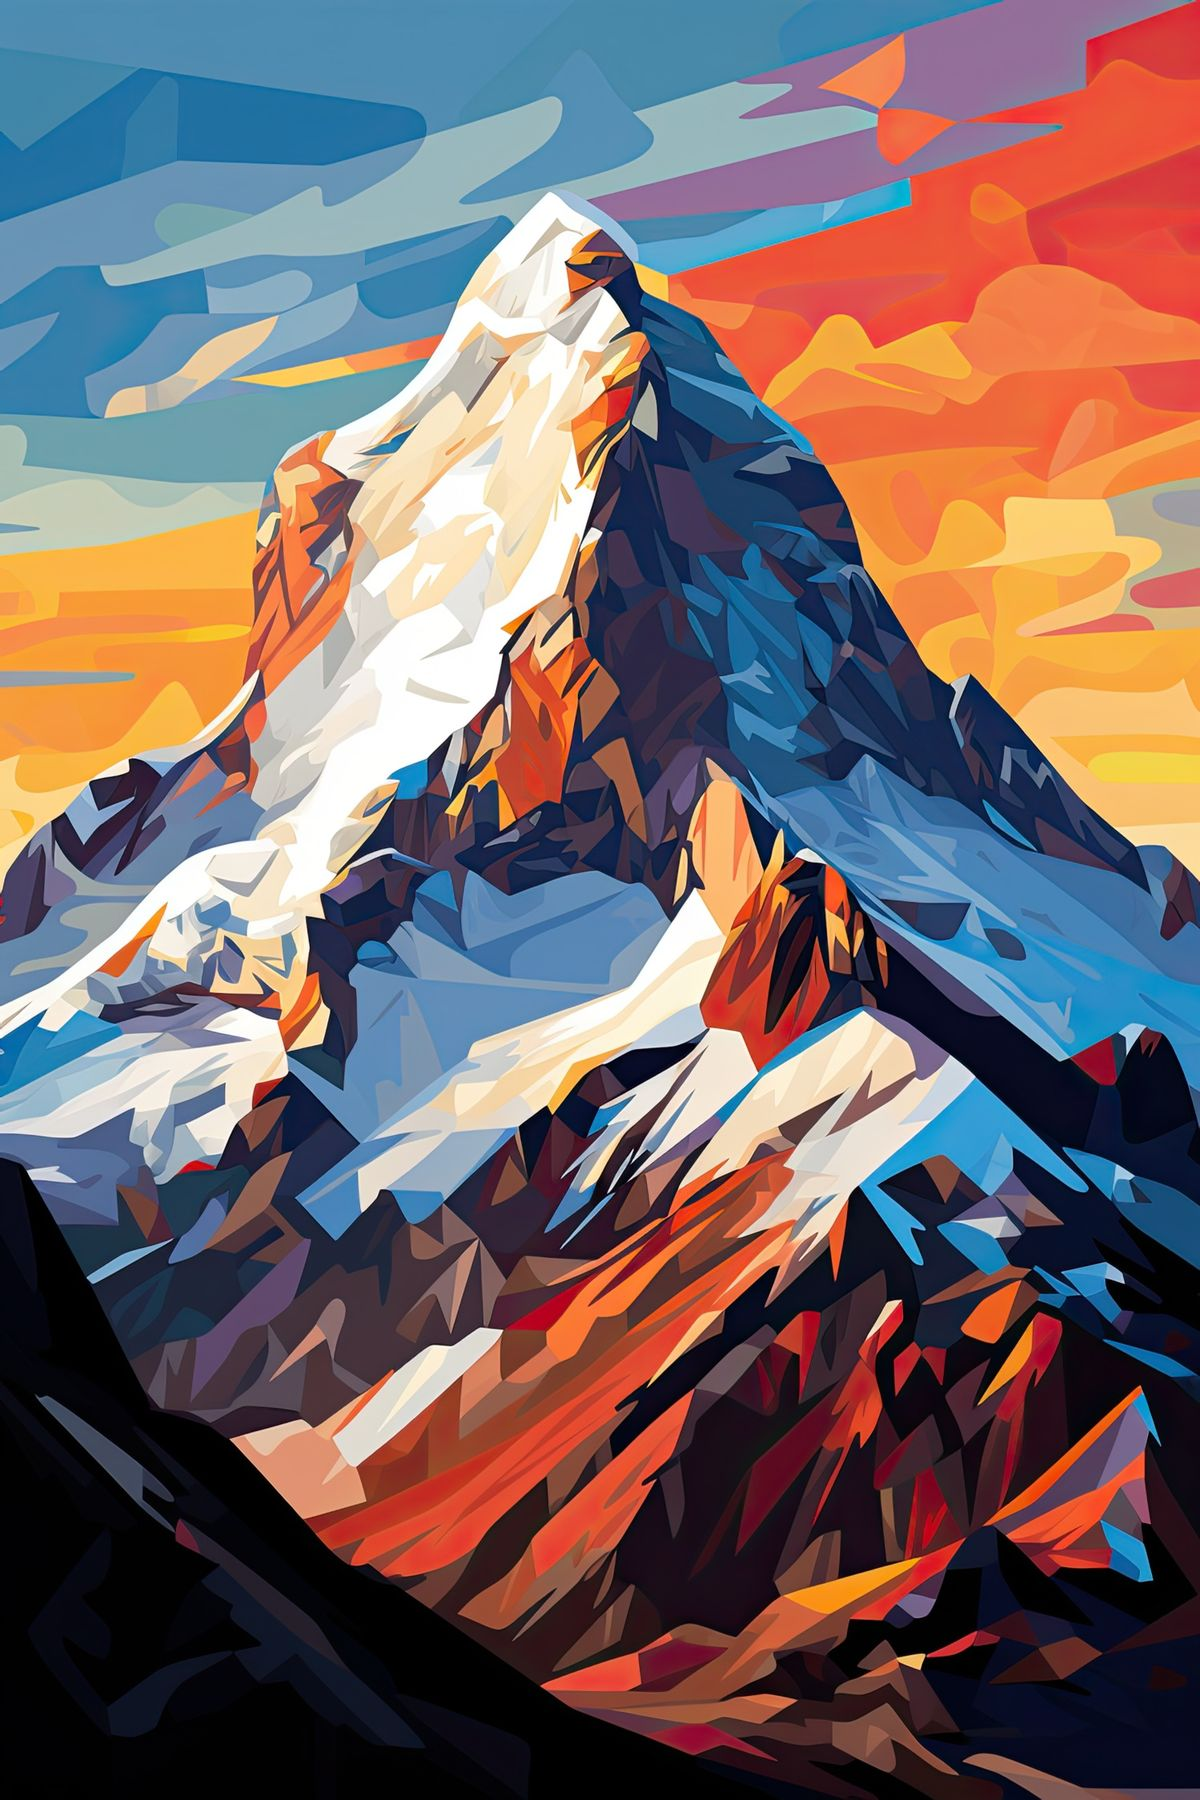
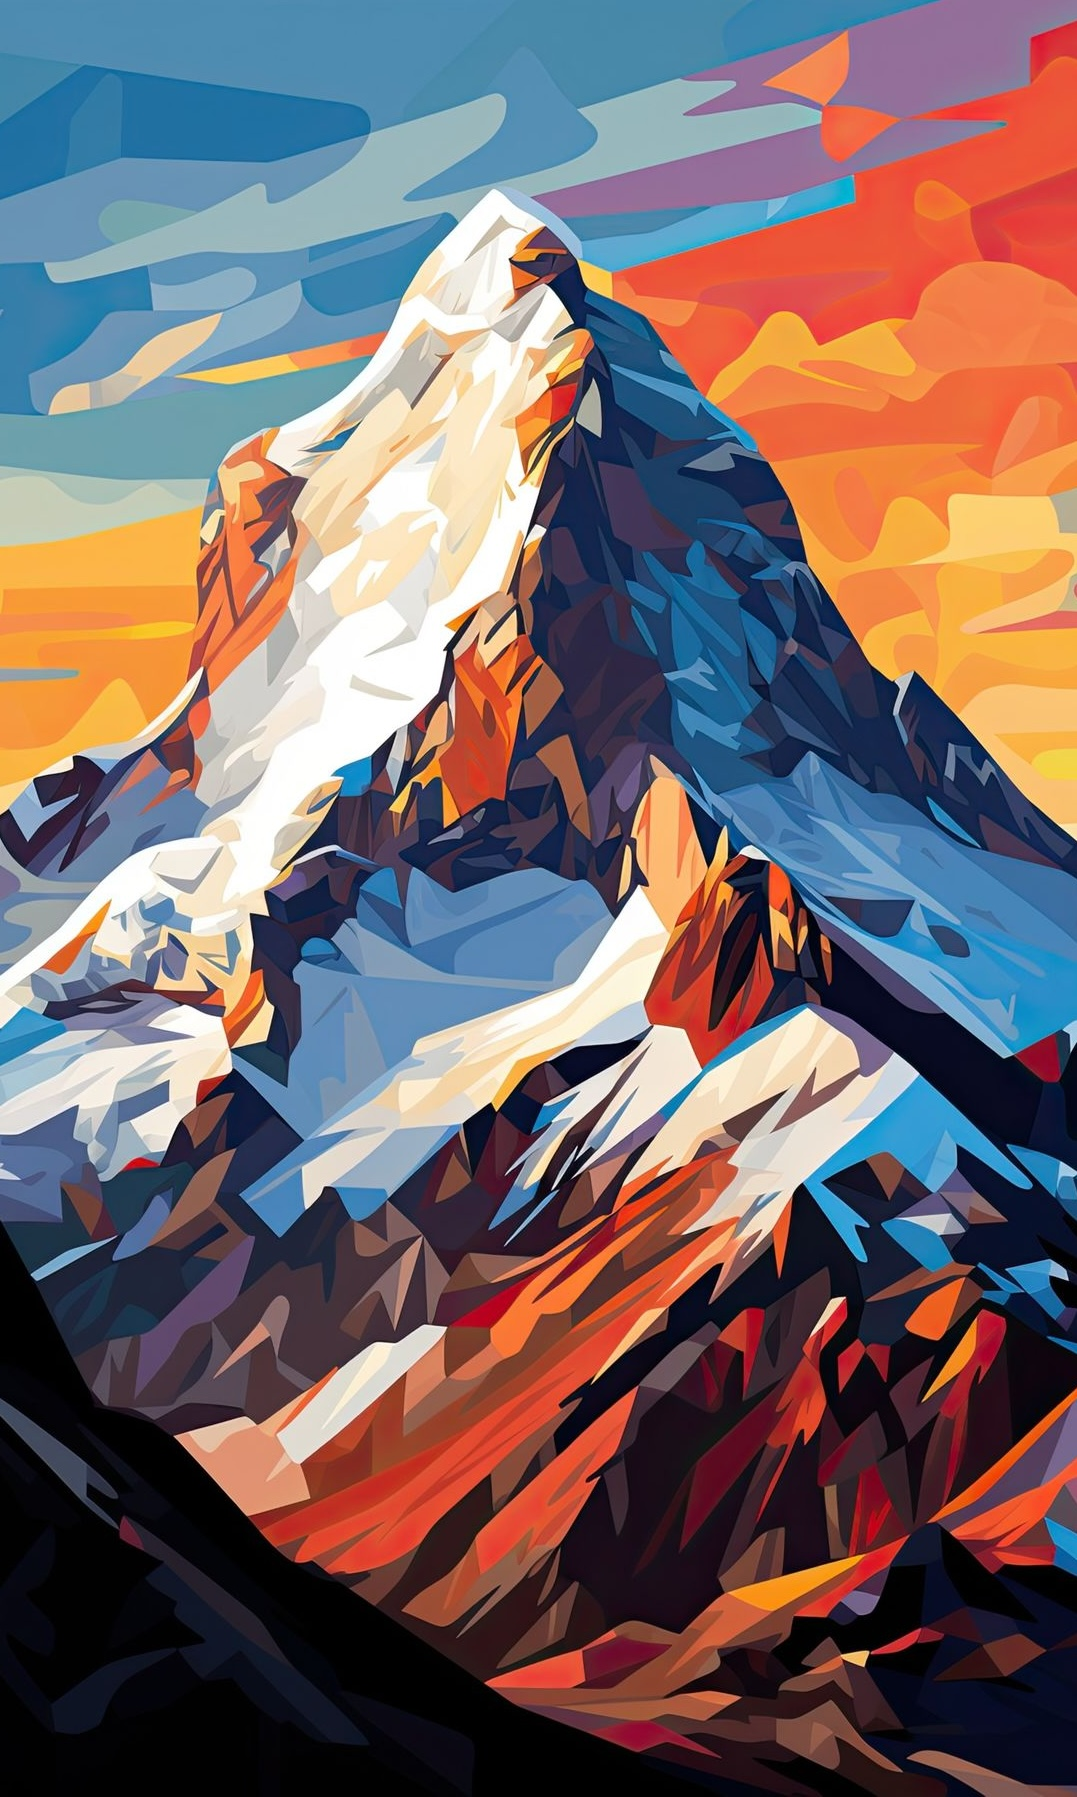
Rebase commit react-picker-image to json package

diff --git a/frontend/app/(tabs)/Map.jsx b/frontend/app/(tabs)/Map.jsx
@@ -1,10 +1,4 @@
-import {
-  Text,
-  ImageBackground,
-  StyleSheet,
-  ScrollView,
-  Dimensions,
-} from "react-native";
+import { Text, ImageBackground, StyleSheet, ScrollView, Dimensions, FlatList } from "react-native";
 import { SafeAreaView } from "react-native-safe-area-context";
 
 const { width, height } = Dimensions.get("window");
@@ -16,11 +10,9 @@ export default function Map() {
   return (
     <SafeAreaView style={styles.container}>
       <ScrollView>
-        <ImageBackground
-          source={image}
-          resizeMode="cover"
-          style={styles.image}
-        />
+        <ImageBackground source={image} resizeMode="cover" style={styles.image}>
+          <FlatList numColumns={15}></FlatList>
+        </ImageBackground>
       </ScrollView>
     </SafeAreaView>
   );
